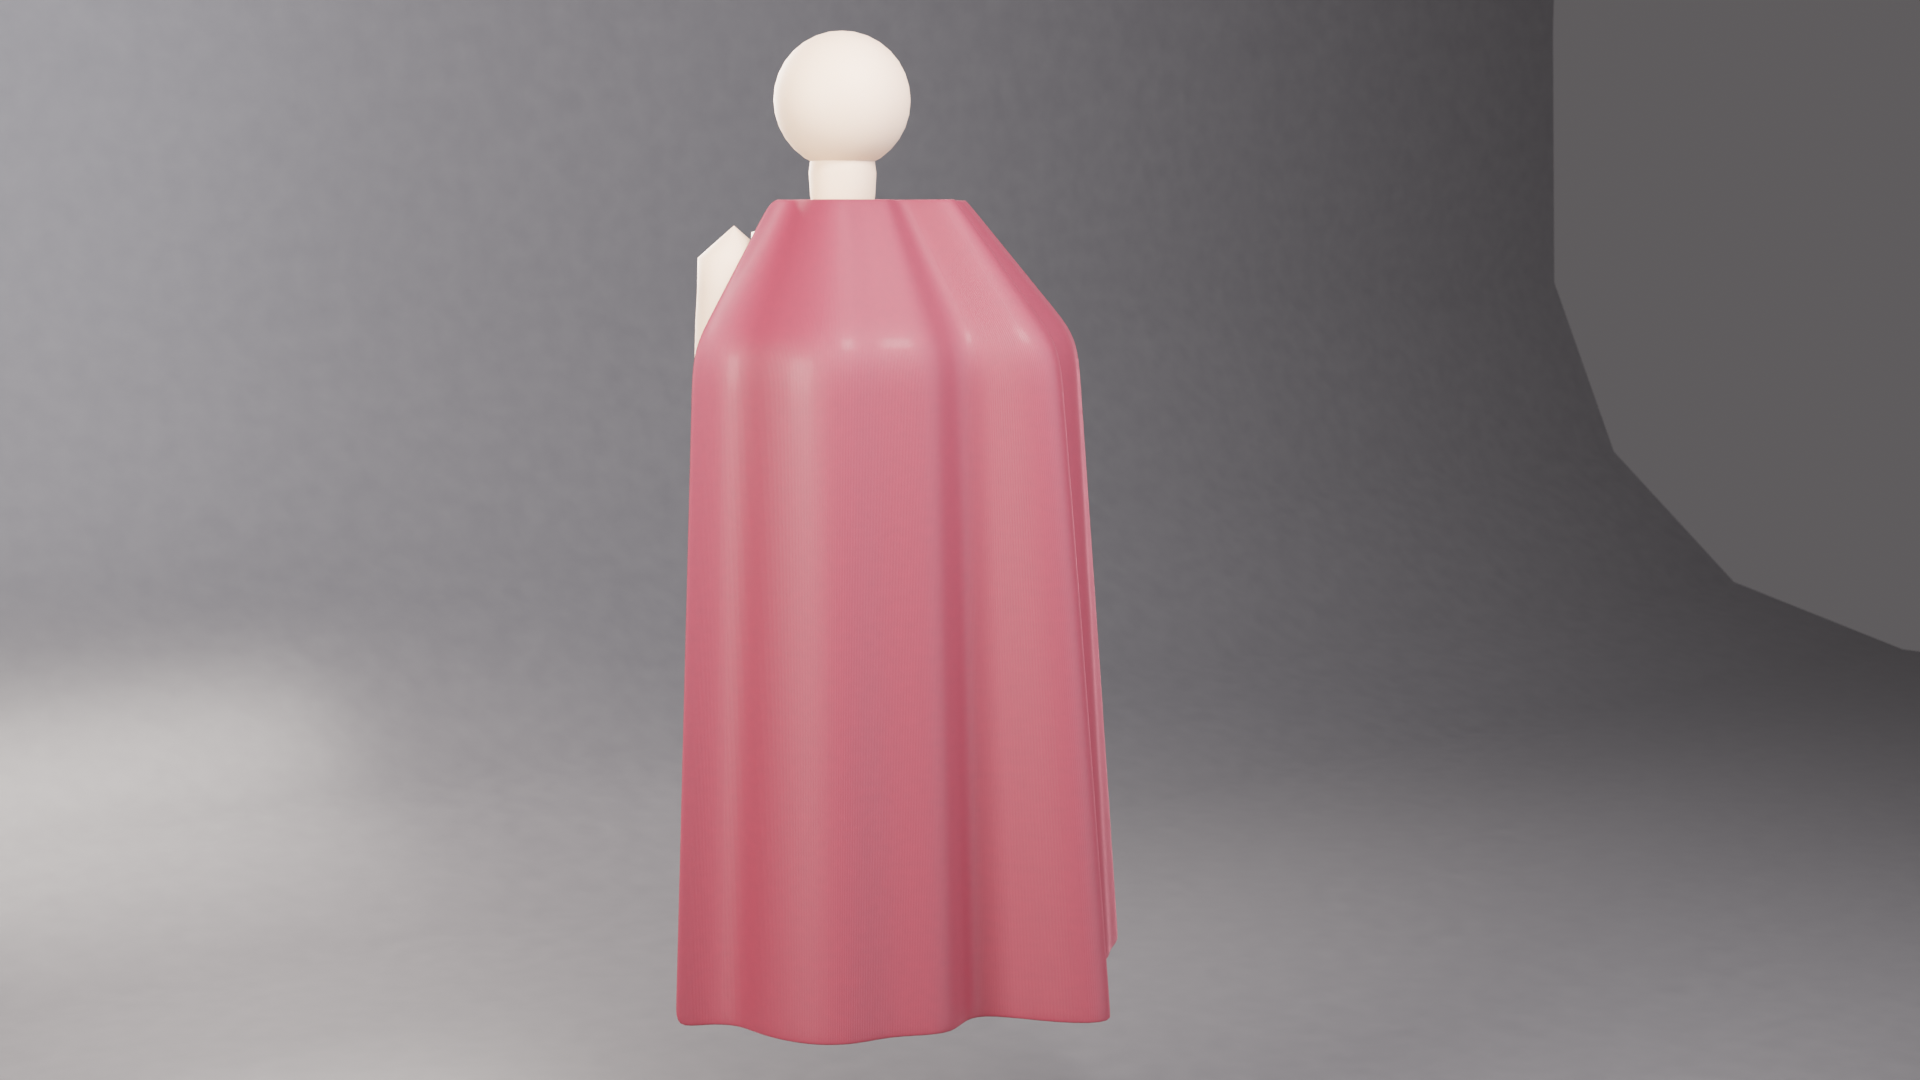
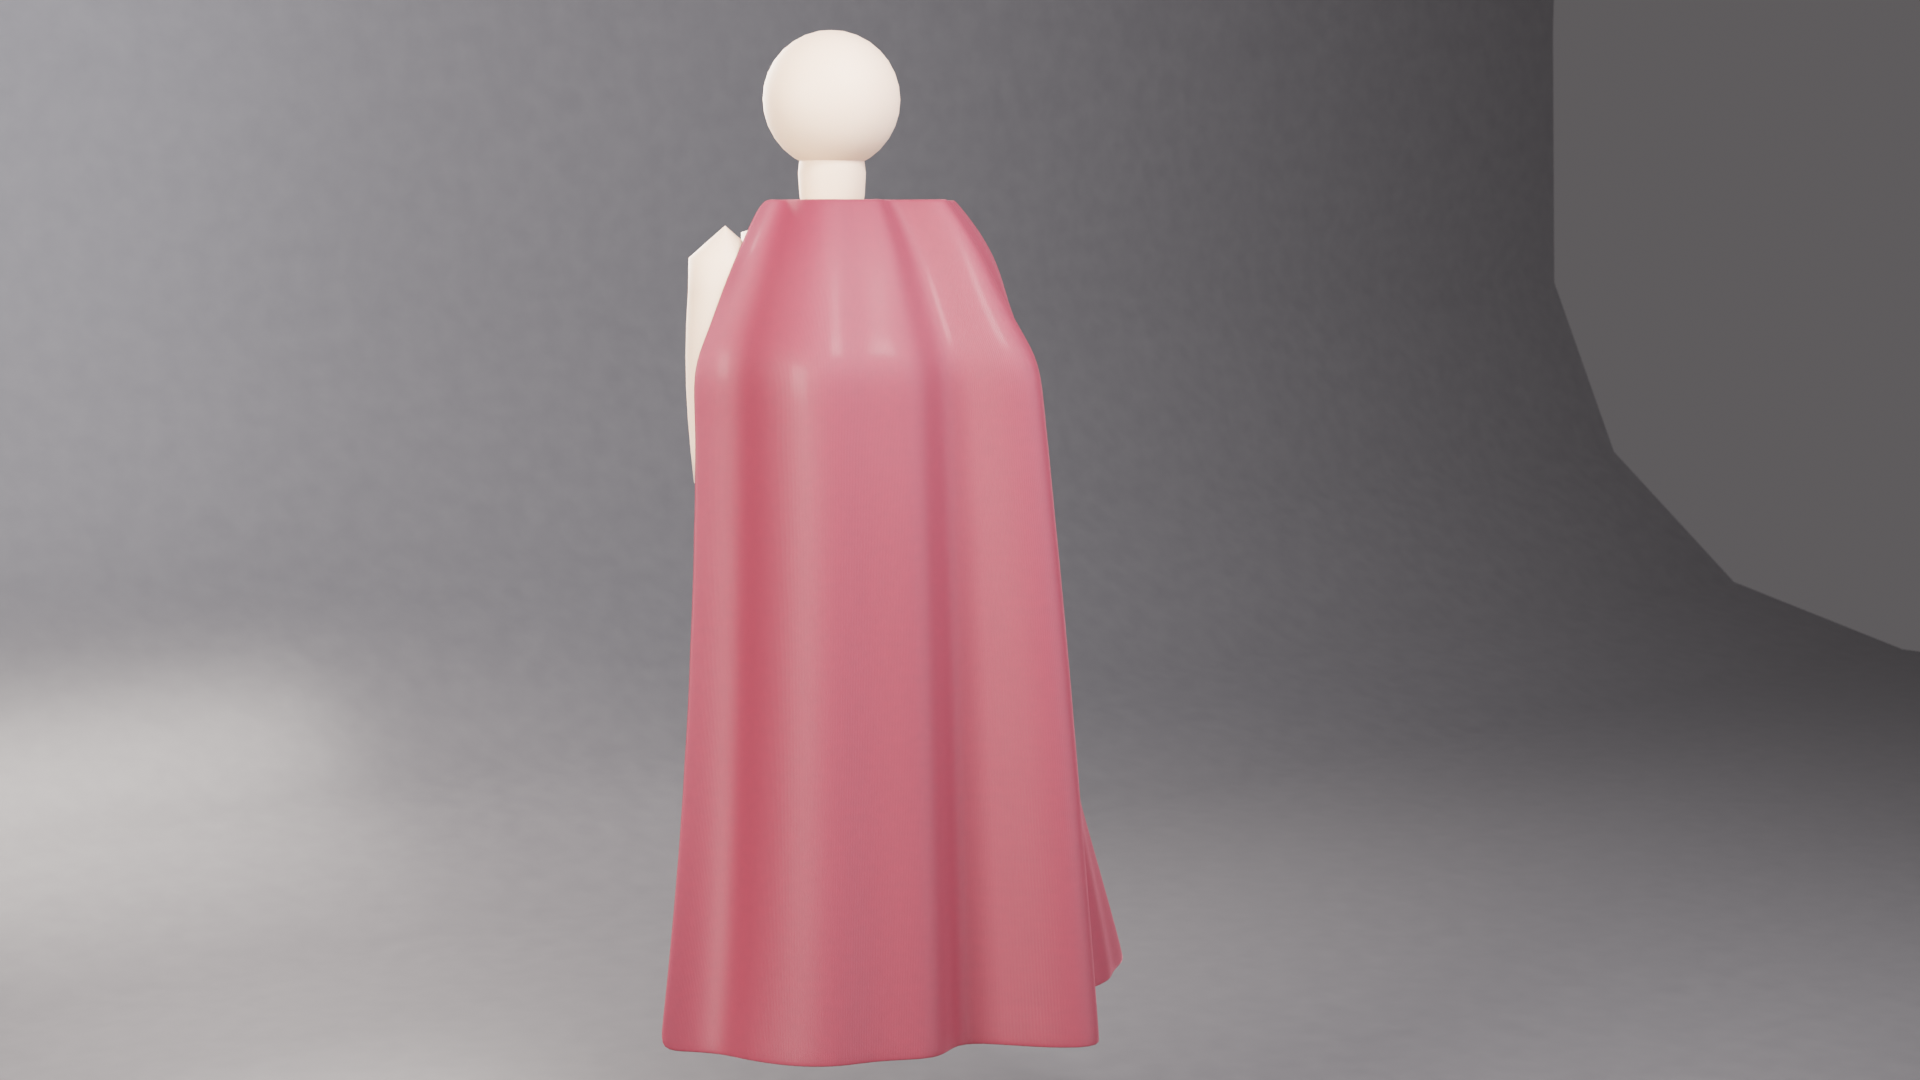
wool preset, group bpy test, crossings tool

diff --git a/tests/test_cloth_group_bpy.py b/tests/test_cloth_group_bpy.py
@@ -1,0 +1,135 @@
+"""Headless Blender test: garment GROUPS (several mesh objects in one collection solved as one unit).
+
+    blender --factory-startup -b --python tests/test_cloth_group_bpy.py
+"""
+import os
+import sys
+
+import bpy
+import numpy as np
+
+HERE = os.path.dirname(os.path.abspath(__file__))
+sys.path.insert(0, os.path.join(HERE, '..'))
+import arc_flow
+arc_flow.register()
+from arc_flow import cloth_ops as CO
+from arc_flow.cloth_panel import draw_cloth_tab
+
+fails = [0]
+
+
+def ok(c, msg):
+    print(("PASS " if c else "FAIL ") + msg, flush=True)
+    if not c:
+        fails[0] += 1
+
+
+sc = bpy.context.scene
+for o in list(bpy.data.objects):
+    bpy.data.objects.remove(o)
+
+
+def sheet(name, n, w, z, loc=(0, 0), coll=None):
+    me = bpy.data.meshes.new(name)
+    xs = np.linspace(0, w, n)
+    v = [(loc[0] + x, loc[1] + y, z) for y in xs for x in xs]
+    f = [(j * n + i, j * n + i + 1, (j + 1) * n + i + 1, (j + 1) * n + i) for j in range(n - 1) for i in range(n - 1)]
+    me.from_pydata(v, [], f)
+    me.update()
+    o = bpy.data.objects.new(name, me)
+    (coll or sc.collection).objects.link(o)
+    return o
+
+
+coll = bpy.data.collections.new("Jacket")
+sc.collection.children.link(coll)
+body = sheet("Body", 14, 0.5, 0.0, coll=coll)
+pocket = sheet("Pocket", 5, 0.12, 0.0, (0.2, 0.2), coll=coll)     # lies ON the body; its border touches the body surface
+collar = sheet("Collar", 8, 0.3, 0.0, (0.5, 0.0), coll=coll)       # shares the body's right border
+vg = body.vertex_groups.new(name="ClothPins")
+vg.add([j * 14 + i for j in range(14) for i in range(14) if j == 13], 1.0, 'REPLACE')   # top row pinned
+loose = sheet("Loose", 4, 0.1, 2.0)                                # not in the collection
+
+# ---- automatic detection from the selection
+bpy.ops.object.select_all(action='DESELECT')
+for o in (body, pocket, collar):
+    o.select_set(True)
+bpy.context.view_layer.objects.active = body
+r = bpy.ops.arcflow.cloth_assign()
+cl = sc.arc_flow_cloth
+ok(r == {'FINISHED'} and len(cl.garments) == 1, "Assign selected turns meshes of one collection into ONE garment group")
+g = cl.garments[0]
+ok(g.collection == coll and len(g.members) == 3, "group = the collection, 3 members (%s)" % [m.name for m in g.members])
+ok(all(o.arc_flow_cloth.is_garment for o in (body, pocket, collar)), "members are flagged as garment objects")
+S = CO.RT.solvers[g.name]
+ok(S.n == 14 * 14 + 25 + 64, "solver merged all member vertices (%d)" % S.n)
+ok(S.members is not None and len(np.unique(S.members)) == 3, "one XPBD system with 3 member ids")
+ok(g.n_stitches > 0, "touching borders were auto-detected and stitched (%d welds)" % g.n_stitches)
+g.members[0].preset = 'WOOL'
+g.members[1].preset = 'SILK'
+g.members[2].preset = 'LEATHER'
+S = CO.build_solver(sc, g)
+ok(S.density_v[0] > S.density_v[14 * 14] and S.density_v[-1] > S.density_v[14 * 14], "per-member fabric: wool/leather heavier than silk")
+
+# ---- a new object added to the collection joins the group
+extra = sheet("Patch", 4, 0.08, 0.0, (0.05, 0.05), coll=coll)
+n_before = len(g.members)
+CO.sync_members(sc, g)
+ok(len(g.members) == n_before + 1, "object added to the collection joins the group on refresh")
+bpy.data.objects.remove(extra)
+CO.sync_members(sc, g)
+ok(len(g.members) == n_before, "object removed from the collection leaves the group")
+S = CO.build_solver(sc, g)
+
+# ---- stepping writes the result back per object, stitches hold
+w0 = np.array([v.co[:] for v in pocket.data.vertices])
+for _ in range(40):
+    CO.step_scene(sc, 1.0 / 60.0)
+w1 = np.array([v.co[:] for v in pocket.data.vertices])
+ok(np.abs(w1 - w0).max() > 1e-4, "pocket object received its solved positions")
+st = S.stitch
+q = (st['bary'][:, :, None] * S.x[st['tri']]).sum(1)
+ok(float(np.linalg.norm(S.x[st['a']] - q, axis=1).max()) < 0.03, "stitches hold after 40 steps")
+
+# ---- self-collision toggle applies group-wide
+g.self_collision = False
+S = CO.build_solver(sc, g)
+ok(S.self_collision is False, "Self-collision OFF reaches the group solver")
+g.self_collision = True
+S = CO.build_solver(sc, g)
+ok(S.self_collision is True, "Self-collision ON reaches the group solver")
+
+# ---- the whole group collides with an external collider
+box = sheet("Table", 12, 1.2, -0.3, (-0.3, -0.3))
+CO.add_collider(sc, box)
+for k in range(60):
+    CO.step_scene(sc, 1.0 / 60.0)
+zmin = min(float(np.array([v.co.z for v in o.data.vertices]).min()) for o in (body, pocket, collar))
+ok(zmin > -0.3 - 1e-3, "group members stay above the external collider (min z %.3f)" % zmin)
+
+# ---- panel draw with a group, and single-object path untouched
+class _L:
+    def __getattr__(self, n):
+        return lambda *a, **k: _L()
+    def __enter__(self):
+        return self
+    def __exit__(self, *a):
+        return False
+try:
+    draw_cloth_tab(_L(), bpy.context)
+    ok(True, "panel draws with a group")
+except Exception as e:
+    ok(False, "panel draw failed: %r" % e)
+
+CO.RT.reset()
+for gg in list(cl.garments):
+    cl.garments.remove(0)
+bpy.ops.object.select_all(action='DESELECT')
+loose.select_set(True)
+bpy.context.view_layer.objects.active = loose
+bpy.ops.arcflow.cloth_assign()
+g1 = cl.garments[0]
+ok(len(g1.members) == 0 and CO.RT.solvers[g1.name].members is None, "single-object garment still takes the plain path")
+
+print("ALL PASS" if not fails[0] else "%d FAILED" % fails[0])
+sys.exit(1 if fails[0] else 0)

diff --git a/docs/cloth_crossings.py b/docs/cloth_crossings.py
@@ -1,0 +1,73 @@
+"""Per-frame layer-crossing table for a solved garment group (no bpy; plain python3).
+
+    python3 docs/cloth_crossings.py CACHE.npz [every=12] [out.md]
+
+For every `every`-th frame: vertices of member P that sit on the wrong (non-rest) side of the nearest face of member Q
+they project onto, for every ordered member pair, plus the deepest one (mm).  Independent of the solver: brute-force
+matrix test on the stored positions (core.cloth_selfcol.SelfCollider.wrong_side).  Prints min / max / worst frame.
+"""
+import importlib.util
+import json
+import os
+import sys
+
+import numpy as np
+
+HERE = os.path.dirname(os.path.abspath(__file__))
+spec = importlib.util.spec_from_file_location('cloth_selfcol', os.path.join(HERE, '..', 'arc_flow', 'core', 'cloth_selfcol.py'))
+SC = importlib.util.module_from_spec(spec)
+spec.loader.exec_module(SC)
+
+
+def table(cache, every=12, names=None, verbose=True):
+    z = np.load(cache)
+    X, rest, tris, mem = z['x'], z['rest'], z['tris'], z['members']
+    sc = SC.SelfCollider(tris, _edges(tris), len(rest))
+    sc.set_rest(rest)
+    k = int(mem.max()) + 1
+    names = names or ["m%d" % i for i in range(k)]
+    pairs = [(a, b) for a in range(k) for b in range(k) if a != b]
+    rows = []
+    for f in range(0, len(X), every):
+        ws = sc.wrong_side(X[f].astype(float), labels=mem)
+        rows.append((f + 1, {p: ws[p] for p in pairs}))
+        if verbose:
+            print(f + 1, {"%s>%s" % (names[a], names[b]): v[0] for (a, b), v in rows[-1][1].items()}, flush=True)
+    return rows, pairs, names
+
+
+def _edges(tris):
+    e = np.concatenate([tris[:, [0, 1]], tris[:, [1, 2]], tris[:, [2, 0]]])
+    e.sort(axis=1)
+    return np.unique(e, axis=0)
+
+
+def summary(rows, pairs, names):
+    out = ["| frame | " + " | ".join("%s -> %s" % (names[a], names[b]) for a, b in pairs) + " | total |",
+           "|---|" + "---|" * (len(pairs) + 1)]
+    for f, d in rows:
+        out.append("| %d | " % f + " | ".join("%d (%.1f mm)" % (d[p][0], 1000 * d[p][1]) if d[p][0] else "0" for p in pairs)
+                   + " | %d |" % sum(d[p][0] for p in pairs))
+    tot = [sum(d[p][0] for p in pairs) for _f, d in rows]
+    w = int(np.argmax(tot))
+    out.append("")
+    out.append("total wrong-side vertices over %d sampled frames: min %d, max %d (frame %d), mean %.1f"
+               % (len(rows), min(tot), max(tot), rows[w][0], float(np.mean(tot))))
+    for p in pairs:
+        c = [d[p][0] for _f, d in rows]
+        dep = max(d[p][1] for _f, d in rows)
+        out.append("- %s -> %s: min %d, max %d (frame %d), deepest %.1f mm" % (names[p[0]], names[p[1]], min(c), max(c),
+                                                                          rows[int(np.argmax(c))][0], 1000 * dep))
+    return "\n".join(out)
+
+
+if __name__ == '__main__':
+    cache = sys.argv[1]
+    every = int(sys.argv[2]) if len(sys.argv) > 2 else 12
+    outp = sys.argv[3] if len(sys.argv) > 3 else None
+    nm = ["Bodice+Skirt", "Overskirt", "Train"]
+    rows, pairs, names = table(cache, every, nm)
+    txt = summary(rows, pairs, names)
+    print(txt)
+    if outp:
+        open(outp, 'w').write(txt + "\n")

diff --git a/arc_flow/core/cloth_solver.py b/arc_flow/core/cloth_solver.py
@@ -33,6 +33,11 @@ PRESETS = {
         density=0.18, stretch=4.0e4, shear=1.6e4, bend=40.0, damping=0.18,
         thickness=0.0025, margin=0.005, drag=1.05, lift=0.35, friction=0.25,
     ),
+    'WOOL': dict(
+        label="Wool / Coat",
+        density=0.30, stretch=5.5e4, shear=2.2e4, bend=90.0, damping=0.22,
+        thickness=0.0035, margin=0.0055, drag=0.95, lift=0.28, friction=0.40,
+    ),
     'DENIM': dict(
         label="Denim / Jacket",
         density=0.42, stretch=8.0e4, shear=3.5e4, bend=180.0, damping=0.24,
